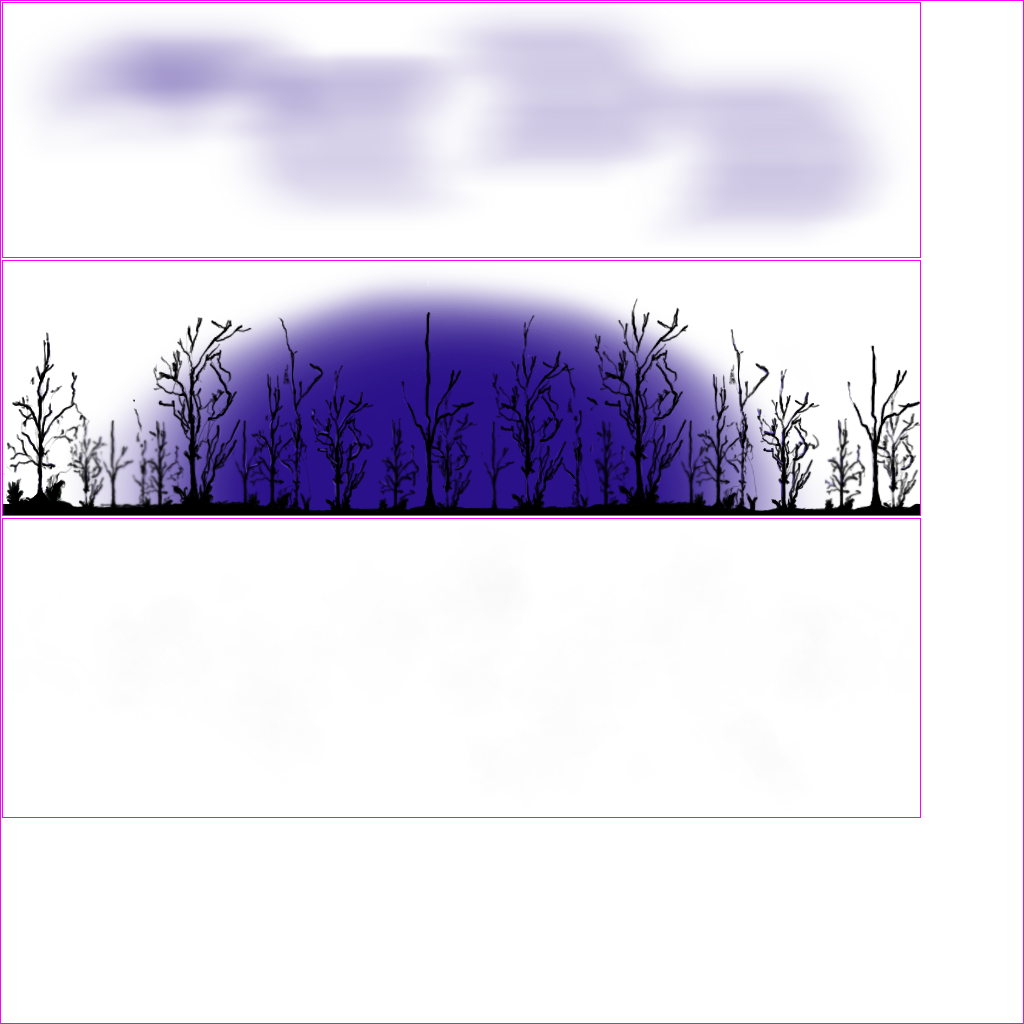
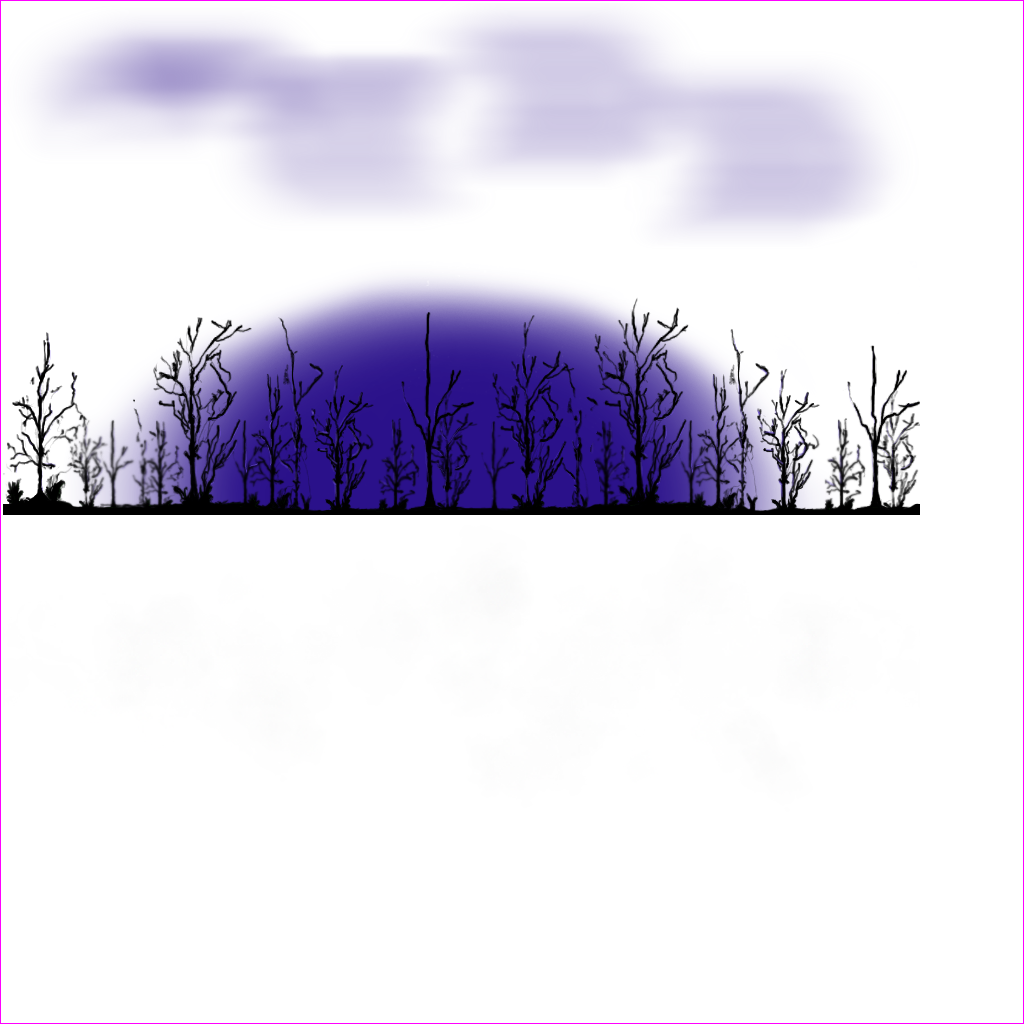
removed background debug lines, enemies randomly change directions

diff --git a/core/src/com/douge/gdx/game/enemystate/EnemyMovingState.java b/core/src/com/douge/gdx/game/enemystate/EnemyMovingState.java
@@ -37,6 +37,12 @@ public class EnemyMovingState extends EnemyState
 			// Make sure the object's velocity does not exceed the
 			// positive or negative terminal velocity
 			enemy.currentVelocity.x = MathUtils.clamp(enemy.currentVelocity.x, -enemy.maxVelocity.x, enemy.maxVelocity.x);
+			
+			if((int)(Math.random()*100) == 1)
+			{
+				enemy.currentVelocity.x *= -1;
+			}
+			
 			enemy.viewDirection = enemy.currentVelocity.x < 0 ? VIEW_DIRECTION.LEFT : VIEW_DIRECTION.RIGHT;
 			enemy.currentAnimation = enemy.assets.movingAnimation;
 		}
